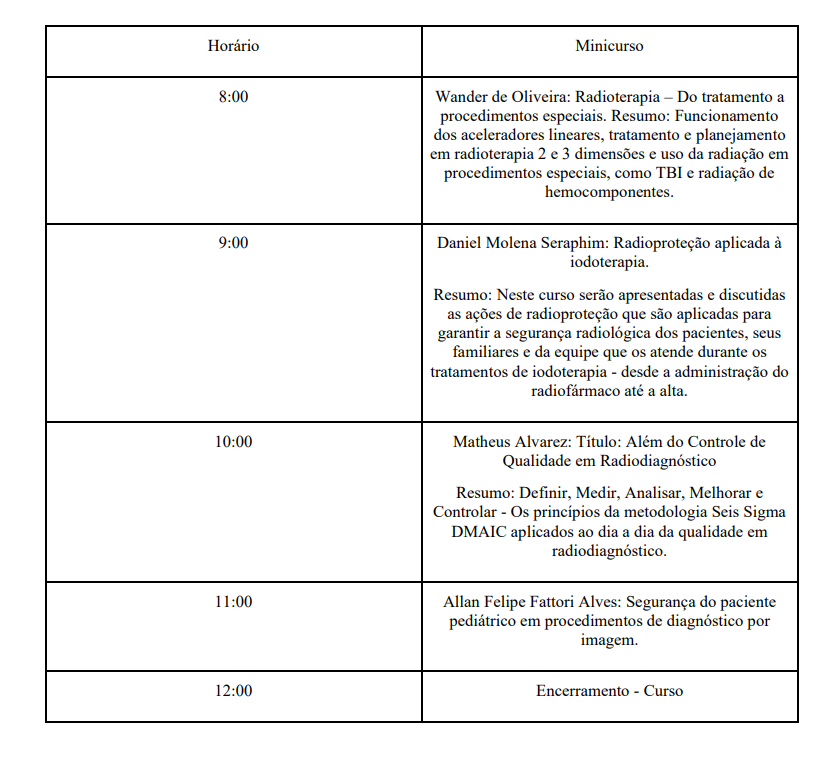
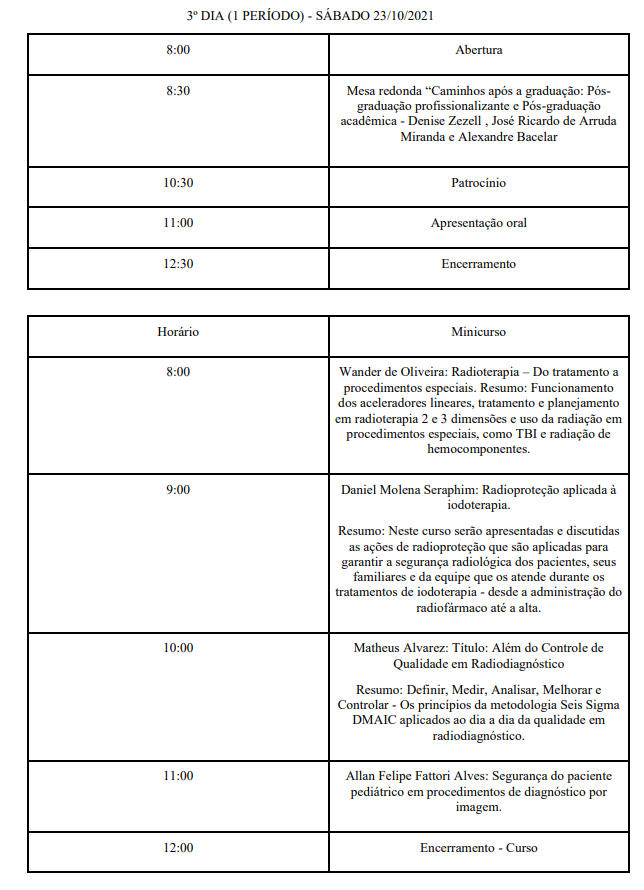
imagem quebrada

Changed region(s): [[0.0311, 0.0, 0.9938, 0.9961], [0.2484, 0.6942, 0.3106, 0.815], [0.2484, 0.5433, 0.3106, 0.6037]]

diff --git a/programacao.html b/programacao.html
@@ -146,7 +146,7 @@
 
     </p>
 
-    <img class="container" src="img/Grade3.png">
+    <img class="container" src="img/Grade4.png">
        <!-- <a target="_blank" href="http://fundibioeventos.ibb.unesp.br/eventos/xvconfiam2019/"> -->
 
 
@@ -165,7 +165,7 @@
 
     </p>
 
-    <img class="container" src="img/Grade4.png"><br>
+    <!-- <img class="container" src="img/Grade4.png"><br> -->
        <!-- <a target="_blank" href="http://fundibioeventos.ibb.unesp.br/eventos/xvconfiam2019/"> -->
 
 
